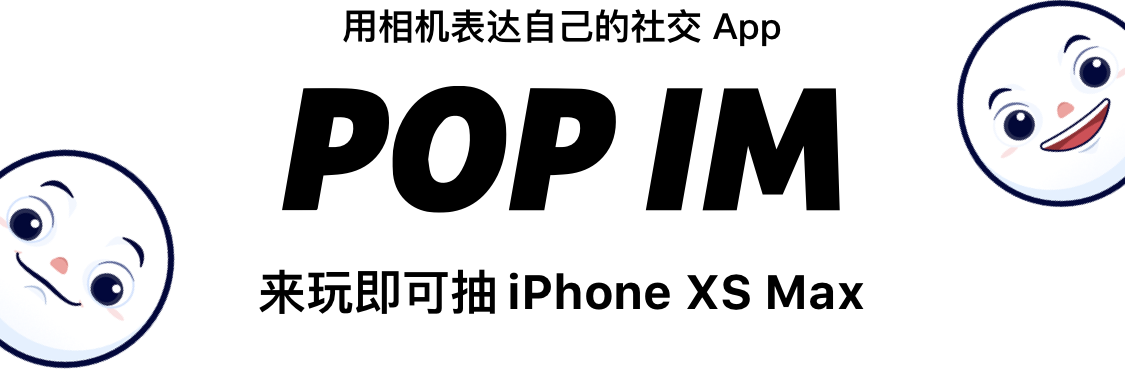
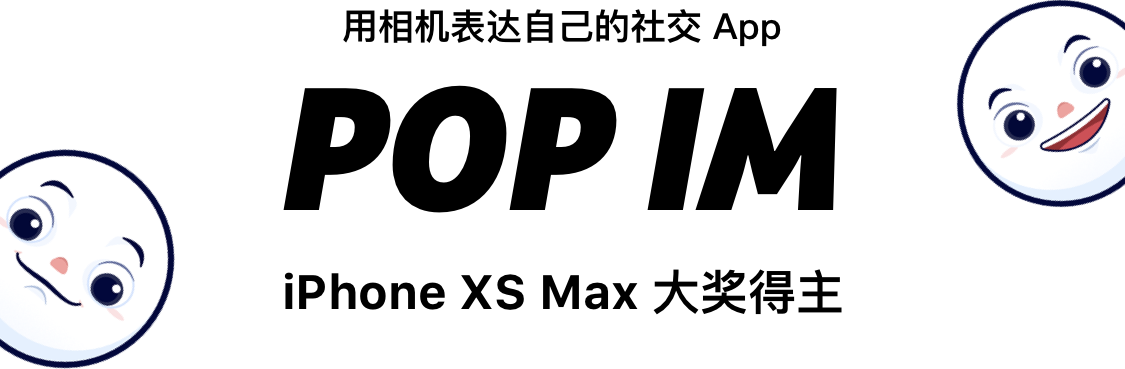
update: event finished.

diff --git a/#event1809.html b/#event1809.html
@@ -60,12 +60,11 @@
       }
 
       .index-content-2 {
-        padding-top: 0.16rem;
-        width: 10rem;
-        height: 8.85333rem;
+        position: relative;
+        padding-top: 0.7rem;
       }
 
-/*      .index-content-4 a {
+      .index-content-2 a {
         position: absolute;
         bottom: 0.59rem;
         left: 4.4rem;
@@ -74,39 +73,37 @@
         font-family: PingFangSC-Semibold;
         font-size: 12px;
         letter-spacing: 0;
-      }*/
+      }
 
       .index-content-3 {
-        font-family: PingFangSC-Regular;
-        font-size: 10px;
-        color: #A5AFB8;
-        letter-spacing: 0;
-        margin-top: 0.96rem;
-        width: 7.46666rem;
-        margin-left: auto;
-        margin-right: auto;
-        text-align: left;
-        margin-bottom: 0.346667rem;
+        padding-top: 0.32rem;
+      }
+
+      .index-content-4 {
+        padding-top: 0.93rem;
       }
 
       .index-content-4 a {
-        display: inline-block;
-        padding: 0.4rem 0.3rem;
+        padding: 0.4rem 1rem;
         text-decoration: none;
         outline: none;
-        color: #40B9FF;
+        color: #FFF;
         font-family: PingFangSC-Semibold;
-        font-size: 12px;
+        font-size: 16px;
         letter-spacing: 0;
-        height: 1.4rem;
+        height: 1.36rem;
         width: 4.43rem;
-        /*background-color: #40B9FF;
+        background-color: #336699;
         border-radius: 0.68rem;
-        border: 0;*/
+        border: 0;
+      }
+
+      .index-content-5 {
+        padding-top: 1.28rem;
       }
 
       .index-content-6 {
-        margin-top: 0.96rem;
+        margin-top: 0.69rem;
         padding: 0.59rem 0.51rem;
         margin-left: auto;
         margin-right: auto;
@@ -199,22 +196,26 @@
 
         <div class="index-content-2">
           <img src="./event/img/img-2@3x.png">
+          <a href="https://www.sundayhi.com">前往下载</a>
         </div>
 
         <div class="index-content-3">
-          <p>我们从众多符合活动要求的报名者中，随机抽选一位幸运儿。<br>恭喜这位来自广东财经大学的同学（POP ID 已作隐私处理），请你留意邮件和手机短信通知，及时联系领奖。
-          </p>
+          <img src="./event/img/img-3@3x.png">
         </div>
 
         <div class="index-content-4">
-          <a href="https://www.sundayhi.com">关于 POP IM 了解更多</a>
+          <a>报名截止，等候抽奖</a>
         </div>
 
+        <div class="index-content-5">
+          <img src="./event/img/img-4@3x.png">
+        </div>
 
         <div class="index-content-6">
           <div class="index-content-6L">
-            <p class="index-content-6L-1">抽奖限在校大学生。现已公布结果。<br><br>
-            欢迎给 POP IM 提意见 (hi@sunday37.com)。我们会挑选 50 位用心反馈的同学，赠予京东购物卡￥200。<br><br>
+            <p class="index-content-6L-1">抽奖限在校大学生<br>
+            报名截止：2018年10月7日 23:55<br>
+            欢迎给 POP IM 提意见(hi@sunday37.com)，我们会挑选 50 位用心反馈的同学，赠予京东购物卡￥200。<br><br>
             微信客服：popim37</p>
           </div>
           <div class="index-content-6R">

diff --git a/1809scau.html b/1809scau.html
@@ -60,11 +60,12 @@
       }
 
       .index-content-2 {
-        position: relative;
-        padding-top: 0.7rem;
+        padding-top: 0.16rem;
+        width: 10rem;
+        height: 8.85333rem;
       }
 
-      .index-content-2 a {
+/*      .index-content-4 a {
         position: absolute;
         bottom: 0.59rem;
         left: 4.4rem;
@@ -73,37 +74,39 @@
         font-family: PingFangSC-Semibold;
         font-size: 12px;
         letter-spacing: 0;
-      }
+      }*/
 
       .index-content-3 {
-        padding-top: 0.32rem;
-      }
-
-      .index-content-4 {
-        padding-top: 0.93rem;
+        font-family: PingFangSC-Regular;
+        font-size: 10px;
+        color: #A5AFB8;
+        letter-spacing: 0;
+        margin-top: 0.96rem;
+        width: 7.46666rem;
+        margin-left: auto;
+        margin-right: auto;
+        text-align: left;
+        margin-bottom: 0.346667rem;
       }
 
       .index-content-4 a {
-        padding: 0.4rem 1rem;
+        display: inline-block;
+        padding: 0.4rem 0.3rem;
         text-decoration: none;
         outline: none;
-        color: #FFF;
+        color: #40B9FF;
         font-family: PingFangSC-Semibold;
-        font-size: 16px;
+        font-size: 12px;
         letter-spacing: 0;
-        height: 1.36rem;
+        height: 1.4rem;
         width: 4.43rem;
-        background-color: #336699;
+        /*background-color: #40B9FF;
         border-radius: 0.68rem;
-        border: 0;
-      }
-
-      .index-content-5 {
-        padding-top: 1.28rem;
+        border: 0;*/
       }
 
       .index-content-6 {
-        margin-top: 0.69rem;
+        margin-top: 0.96rem;
         padding: 0.59rem 0.51rem;
         margin-left: auto;
         margin-right: auto;
@@ -196,26 +199,22 @@
 
         <div class="index-content-2">
           <img src="./event/img/img-2@3x.png">
-          <a href="https://www.sundayhi.com">前往下载</a>
         </div>
 
         <div class="index-content-3">
-          <img src="./event/img/img-3@3x.png">
+          <p>我们从众多符合活动要求的报名者中，随机抽选一位幸运儿。<br>恭喜这位来自广东财经大学的同学（POP ID 已作隐私处理），请你留意邮件和手机短信通知，及时联系领奖。
+          </p>
         </div>
 
         <div class="index-content-4">
-          <a>报名截止，等候抽奖</a>
+          <a href="https://www.sundayhi.com">关于 POP IM 了解更多</a>
         </div>
 
-        <div class="index-content-5">
-          <img src="./event/img/img-4@3x.png">
-        </div>
 
         <div class="index-content-6">
           <div class="index-content-6L">
-            <p class="index-content-6L-1">抽奖限在校大学生<br>
-            报名截止：2018年10月7日 23:55<br>
-            欢迎给 POP IM 提意见(hi@sunday37.com)，我们会挑选 50 位用心反馈的同学，赠予京东购物卡￥200。<br><br>
+            <p class="index-content-6L-1">抽奖限在校大学生。现已公布结果。<br><br>
+            欢迎给 POP IM 提意见 (hi@sunday37.com)。我们会挑选 50 位用心反馈的同学，赠予京东购物卡￥200。<br><br>
             微信客服：popim37</p>
           </div>
           <div class="index-content-6R">

diff --git a/event1809.html b/event1809.html
@@ -60,11 +60,12 @@
       }
 
       .index-content-2 {
-        position: relative;
-        padding-top: 0.7rem;
+        padding-top: 0.16rem;
+        width: 10rem;
+        height: 8.85333rem;
       }
 
-      .index-content-2 a {
+/*      .index-content-4 a {
         position: absolute;
         bottom: 0.59rem;
         left: 4.4rem;
@@ -73,37 +74,39 @@
         font-family: PingFangSC-Semibold;
         font-size: 12px;
         letter-spacing: 0;
-      }
+      }*/
 
       .index-content-3 {
-        padding-top: 0.32rem;
-      }
-
-      .index-content-4 {
-        padding-top: 0.93rem;
+        font-family: PingFangSC-Regular;
+        font-size: 10px;
+        color: #A5AFB8;
+        letter-spacing: 0;
+        margin-top: 0.96rem;
+        width: 7.46666rem;
+        margin-left: auto;
+        margin-right: auto;
+        text-align: left;
+        margin-bottom: 0.346667rem;
       }
 
       .index-content-4 a {
-        padding: 0.4rem 1rem;
+        display: inline-block;
+        padding: 0.4rem 0.3rem;
         text-decoration: none;
         outline: none;
-        color: #FFF;
+        color: #40B9FF;
         font-family: PingFangSC-Semibold;
-        font-size: 16px;
+        font-size: 12px;
         letter-spacing: 0;
-        height: 1.36rem;
+        height: 1.4rem;
         width: 4.43rem;
-        background-color: #336699;
+        /*background-color: #40B9FF;
         border-radius: 0.68rem;
-        border: 0;
-      }
-
-      .index-content-5 {
-        padding-top: 1.28rem;
+        border: 0;*/
       }
 
       .index-content-6 {
-        margin-top: 0.69rem;
+        margin-top: 0.96rem;
         padding: 0.59rem 0.51rem;
         margin-left: auto;
         margin-right: auto;
@@ -196,26 +199,22 @@
 
         <div class="index-content-2">
           <img src="./event/img/img-2@3x.png">
-          <a href="https://www.sundayhi.com">前往下载</a>
         </div>
 
         <div class="index-content-3">
-          <img src="./event/img/img-3@3x.png">
+          <p>我们从众多符合活动要求的报名者中，随机抽选一位幸运儿。<br>恭喜这位来自广东财经大学的同学（POP ID 已作隐私处理），请你留意邮件和手机短信通知，及时联系领奖。
+          </p>
         </div>
 
         <div class="index-content-4">
-          <a>报名截止，等候抽奖</a>
+          <a href="https://www.sundayhi.com">关于 POP IM 了解更多</a>
         </div>
 
-        <div class="index-content-5">
-          <img src="./event/img/img-4@3x.png">
-        </div>
 
         <div class="index-content-6">
           <div class="index-content-6L">
-            <p class="index-content-6L-1">抽奖限在校大学生<br>
-            报名截止：2018年10月7日 23:55<br>
-            欢迎给 POP IM 提意见(hi@sunday37.com)，我们会挑选 50 位用心反馈的同学，赠予京东购物卡￥200。<br><br>
+            <p class="index-content-6L-1">抽奖限在校大学生。现已公布结果。<br><br>
+            欢迎给 POP IM 提意见 (hi@sunday37.com)。我们会挑选 50 位用心反馈的同学，赠予京东购物卡￥200。<br><br>
             微信客服：popim37</p>
           </div>
           <div class="index-content-6R">
